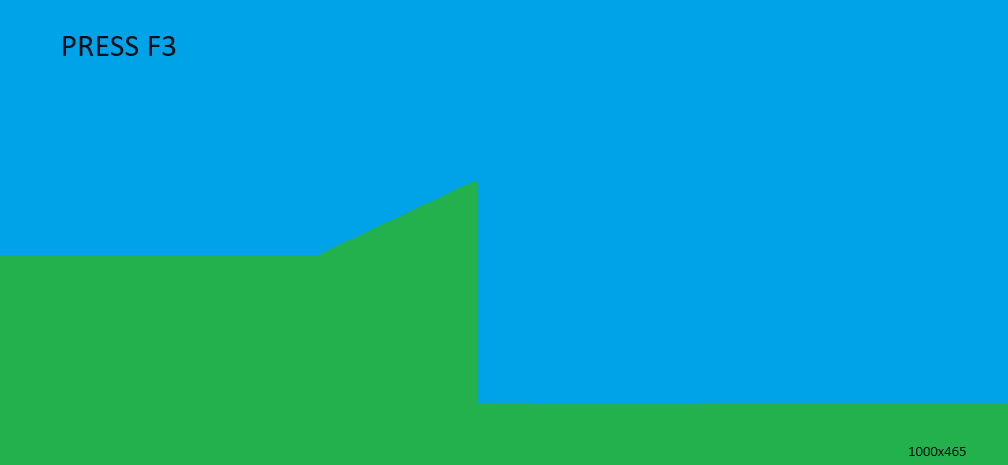
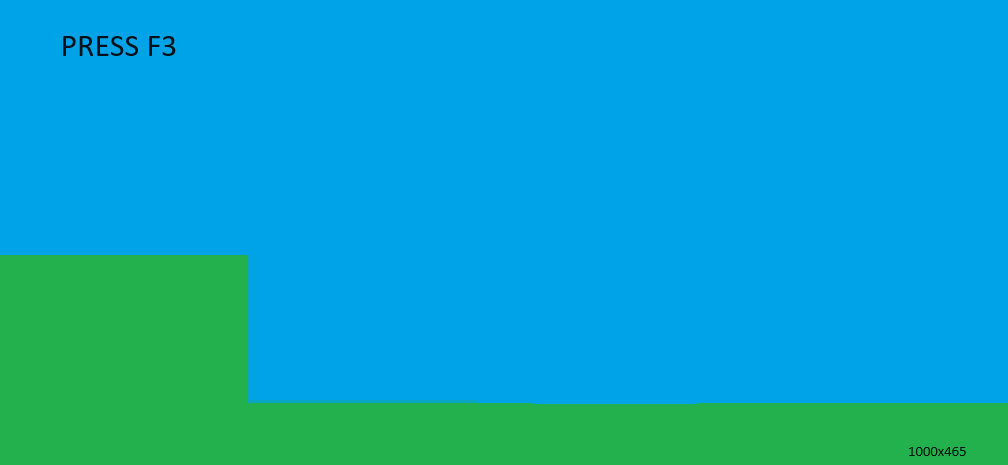
HUD

Changed region(s): [[0.246, 0.3914, 0.4921, 0.8731]]

diff --git a/Echo Jammer/Echo Jammer/Modules/Core/ModuleCollisions.cpp b/Echo Jammer/Echo Jammer/Modules/Core/ModuleCollisions.cpp
@@ -10,22 +10,14 @@ ModuleCollisions::ModuleCollisions(bool startEnabled) : Module(startEnabled) {
 
 	for (uint i = 0; i < MAX_COLLIDERS; ++i)
 		colliders[i] = nullptr;
-
-	matrix[Collider::Type::WALL][Collider::Type::WALL] = false;
-	matrix[Collider::Type::WALL][Collider::Type::PLAYER] = true;
-
-	matrix[Collider::Type::PLAYER][Collider::Type::WALL] = true;
-	matrix[Collider::Type::PLAYER][Collider::Type::PLAYER] = false;
-	/*matrix[Collider::Type::PLAYER][Collider::Type::TR_T1_SALT_LINK] = true;
-	matrix[Collider::Type::PLAYER][Collider::Type::TR_T2] = true;*/
-
+	
 	// EXERCISI 2
 	matrix[Collider::Type::TR_T1_SALT_LINK][Collider::Type::PLAYER] = true;
 	matrix[Collider::Type::TR_T1_FLOOR][Collider::Type::PLAYER] = true;
 	matrix[Collider::Type::TR_T1_PLATAFORM][Collider::Type::PLAYER] = true;
 	
 	// EXERCISI 3
-	matrix[Collider::Type::TR_OBJECTIU_1][Collider::Type::PLAYER] = true;
+	matrix[Collider::Type::TR_OBJECTIVE_1][Collider::Type::BALL] = true;
 }
 
 
@@ -110,13 +102,15 @@ void ModuleCollisions::DebugDraw() {
 		case Collider::Type::NONE: App->render->DrawQuad(colliders[i]->rect, 255, 255, 255, alpha); break;// white
 
 		case Collider::Type::WALL: App->render->DrawQuad(colliders[i]->rect, 0, 0, 255, alpha); break;// blue
+		case Collider::Type::GROUND: App->render->DrawQuad(colliders[i]->rect, 0, 0, 255, alpha); break;// blue
+		case Collider::Type::TR_T1_FLOOR: App->render->DrawQuad(colliders[i]->rect, 0, 0, 255, alpha); break; // bluex
+
 		case Collider::Type::PLAYER: App->render->DrawQuad(colliders[i]->rect, 0, 255, 0, alpha); break;// green
+		case Collider::Type::BALL: App->render->DrawQuad(colliders[i]->rect, 255, 0, 0, alpha); break;// red
 		
 		case Collider::Type::TR_T1_SALT_LINK: App->render->DrawQuad(colliders[i]->rect, 255, 255, 0, alpha); break; // yellow
-		case Collider::Type::TR_T1_FLOOR: App->render->DrawQuad(colliders[i]->rect, 0, 0, 255, alpha); break; // blue
 		case Collider::Type::TR_T1_PLATAFORM: App->render->DrawQuad(colliders[i]->rect, 0, 0, 255, alpha); break; // yellow
-		case Collider::Type::TR_OBJECTIU_1: App->render->DrawQuad(colliders[i]->rect, 255, 255, 0, alpha); break; // yellow
-		case Collider::Type::TR_OBJECTIU_2: App->render->DrawQuad(colliders[i]->rect, 255, 255, 0, alpha); break; // yellow
+		case Collider::Type::TR_OBJECTIVE_1: App->render->DrawQuad(colliders[i]->rect, 255, 255, 0, alpha); break; // yellow
 		}
 	}
 }

diff --git a/Echo Jammer/Echo Jammer/Utils/Collider.h b/Echo Jammer/Echo Jammer/Utils/Collider.h
@@ -14,13 +14,15 @@ struct Collider {
 		WALL,
 		PLAYER,
 
-		// TRIGGERS EXERCISI2
+		// EXERCISI2
 		TR_T1_SALT_LINK, // Salt link 
 		TR_T1_PLATAFORM, //plat coll
 		TR_T1_FLOOR,//floor coll
-		// TRIGGERS EXERCISI3
-		TR_OBJECTIU_1,
-		TR_OBJECTIU_2,
+
+		// EXERCISI3
+		TR_OBJECTIVE_1,
+		GROUND,
+		BALL,
 		MAX
 	};
 

diff --git a/Echo Jammer/Echo Jammer/Application/FileNames.h b/Echo Jammer/Echo Jammer/Application/FileNames.h
@@ -11,6 +11,9 @@
 
 #pragma region IMAGES -> FI
 
+// FONTS
+const std::string FI_HUD_font1 = "_Assets/rtype_font.png";
+
 // Exercisi2
 const std::string FI_Player_moveset = "_Assets/Imagenes/main_character/spritesheet_character.png";
 const std::string FI_Player_car = "_Assets/Exercici2/car.png";

diff --git a/Echo Jammer/Echo Jammer/Modules/Levels/Scena_Exercisi3.h b/Echo Jammer/Echo Jammer/Modules/Levels/Scena_Exercisi3.h
@@ -34,6 +34,7 @@ public:
 	SDL_Rect _rectBall;
 	SDL_Rect _rectAspid;
 	SDL_Rect _rectIdleCanon;
+	SDL_Rect _rectGround1;
 
 	Animation _shootAnimation;
 	Animation _aspidAnimation;
